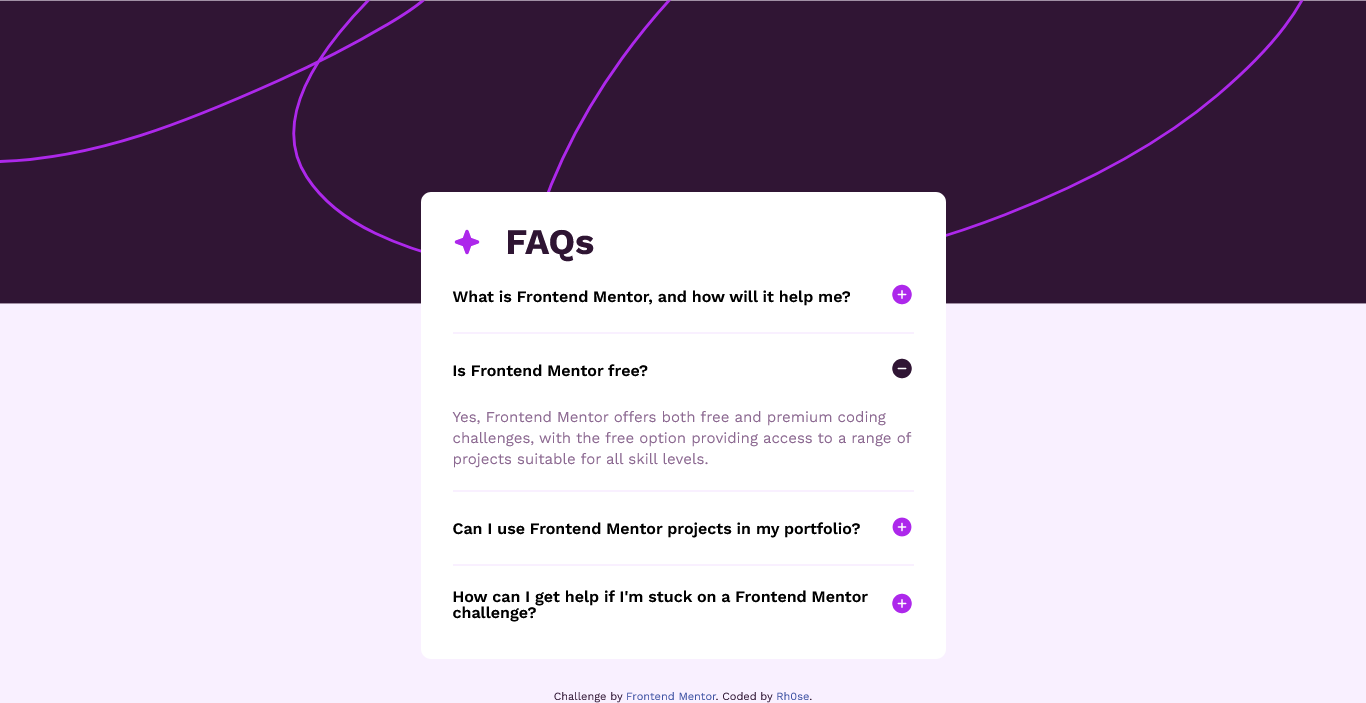
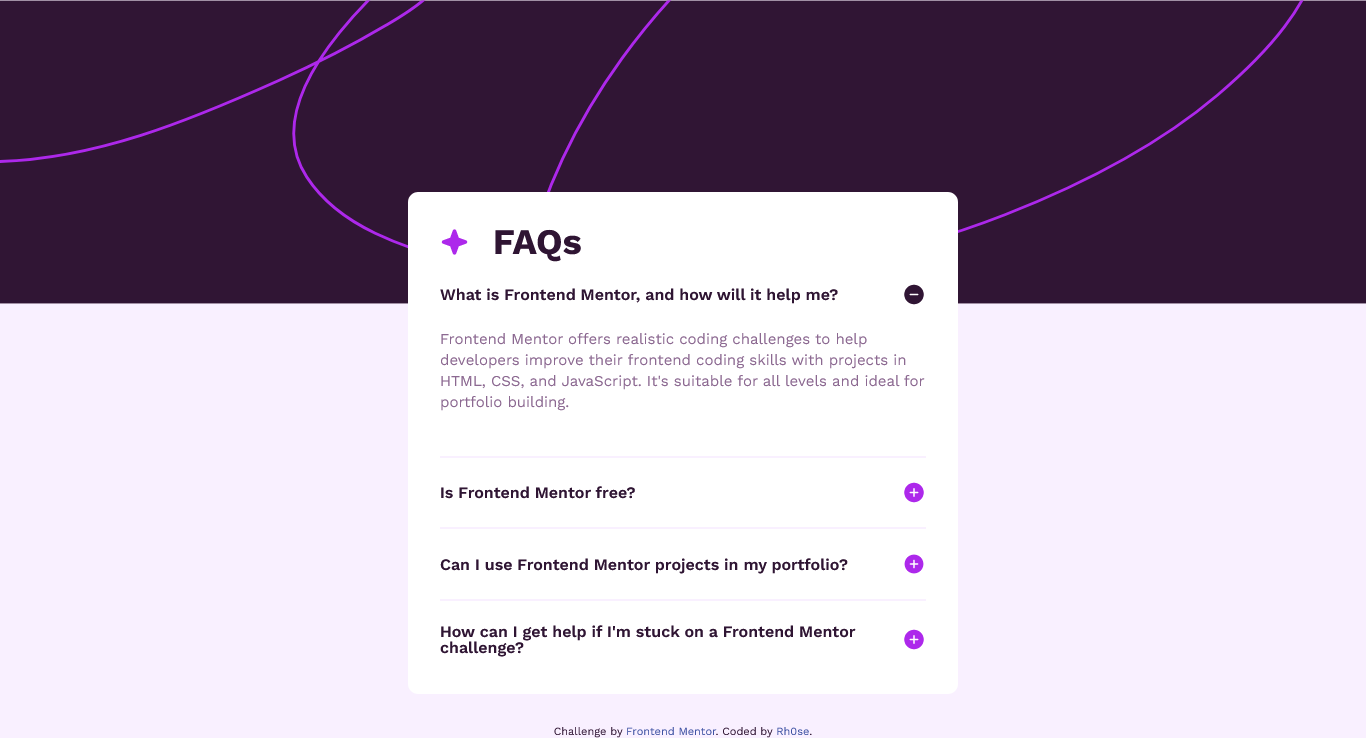
implemented the hide and show toogle with details and summary tags without javascript

diff --git a/index.html b/index.html
@@ -20,8 +20,8 @@
   
 <ul>
 <li id="faq-one">
-  <details class="question" id="question-one">
- <summary class="question-btn" value="one" id="question-one-btn"><span>What is Frontend Mentor, and how will it help me?</span>
+  <details class="faqs-item" id="question-one" open>
+ <summary class="question" value="one" id="question-one-btn"><span>What is Frontend Mentor, and how will it help me?</span>
   <img src="./assets/images/icon-plus.svg" alt="plus" id="one" class="plus">
  </summary>
  <!-- <button class="plus" id="plus-one" value="one"><img src="./assets/images/icon-plus.svg" alt="plus" id="one"></button> -->
@@ -32,48 +32,35 @@
  </p>
   
 </details>
-<!-- <div class="answer" id="one-answer">
-<p>
-  
-</p>
-</div> -->
 
 </li>
 <li>
-  <div class="question" id="question-two" onclick="showAnswer">
- <button class="question-btn" value="two" id="question-two-btn">Is Frontend Mentor free? </button>
- <button class="plus"  id="plus-two" value="two"><img src="./assets/images/icon-plus.svg" alt="plus" id="two"></button>
-</div>
-<div class="answer" id="two-answer">
-  <p>
+  <details class="faqs-item" id="question-two">
+ <summary class="question" value="two" id="question-two-btn"><span>Is Frontend Mentor free?</span><img src="./assets/images/icon-plus.svg" class="plus" alt="plus" id="two"></summary>
+ 
+<p class="answer" id="two-answer">
   Yes, Frontend Mentor offers both free and premium coding challenges, with the free 
   option providing access to a range of projects suitable for all skill levels.
 </p>
-</div>
+</details>
 </li>
 <li>
-  <div class="question" id="question-three">
- <button class="question-btn" id="question-three-btn" value="three">Can I use Frontend Mentor projects in my portfolio?</button>
- <button class="plus"  id="plus-three" value="three"><img src="./assets/images/icon-plus.svg" alt="plus" id="three"></button>
-</div>
-<div class="answer" id="three-answer">
-  <p>
+  <details class="faqs-item" id="question-three">
+ <summary class="question" id="question-three-btn" value="three"><span>Can I use Frontend Mentor projects in my portfolio?</span><img src="./assets/images/icon-plus.svg" class="plus" alt="plus" id="three"></summary>
+<p class="answer" id="three-answer">
   Yes, you can use projects completed on Frontend Mentor in your portfolio. It's an excellent
   way to showcase your skills to potential employers!
 </p>
-</div>
+</details>
 </li>
 <li>
-<div class="question" id="question-four" onclick="showAnswer">
- <button class="question-btn" id="question-four-btn" value="four"> How can I get help if I'm stuck on a Frontend Mentor challenge?</button>
- <button class="plus"  id="plus-four" value="four"><img src="./assets/images/icon-plus.svg" alt="plus" id="four"></button>
-</div> 
-<div class="answer" id="four-answer">
-  <p>
+<details class="faqs-item" id="question-four" onclick="showAnswer">
+ <summary class="question" id="question-four-btn" value="four"><span>How can I get help if I'm stuck on a Frontend Mentor challenge?</span><img src="./assets/images/icon-plus.svg" class="plus" alt="plus" id="four"></summary>
+<p class="answer" id="four-answer">
   The best place to get help is inside Frontend Mentor's Discord community. There's a help 
   channel where you can ask questions and seek support from other community members.
 </p>
-</div>
+</details>
 </li>
 </ul>
 </section>

diff --git a/styles.css b/styles.css
@@ -87,7 +87,7 @@ section {
     margin: 10em auto 2em;
     /* place-self:center; */
     padding: 1em;
-    width: min(90%, 525px);
+    width: min(90%, 550px);
     background-color: var(--White);
     border-radius: 10px;
 }
@@ -104,19 +104,8 @@ section {
     width: 1.2em;
 }
 
-
-summary {
-    color: var(--Dark-purple);
-    display: flex;
-    align-items: center;
-    justify-content: space-between;
-    list-style: none;
-    font-size: 1em;
-    font-weight: var(--fw-semi-bold);
-}
-
-summary span {
-    width: 70%;
+li:not(:nth-of-type(4)) {
+    border-bottom: 2px solid var(--Light-pink);
 }
 
 details {
@@ -132,6 +121,30 @@ details[open] summary img{
     content: url("./assets/images/icon-minus.svg");
 }
 
+summary {
+    width: 100%;
+    color: var(--Dark-purple);
+    display: flex;
+    align-items: center;
+    justify-content: space-between;
+    list-style: none;
+    font-size: 1em;
+    font-weight: var(--fw-semi-bold);
+}
+
+summary span {
+    width: 70%;
+}
+
+summary:hover, summary:active{
+    color:var(--Grayish-purple);
+    font-weight: var(--fw-bold);
+    cursor: pointer;
+ /*    border: 2px solid var(--Grayish-purple); */
+}
+
+
+
 /* summary::after {
     background-image: url('./assets/images/icon-plus.svg');
     background-size: 25px 25px;
@@ -140,30 +153,20 @@ details[open] summary img{
     content:"";
 } */
 
-div.question{
+/* divsummary{
     font-size: 1em;
     font-weight: var(--fw-semi-bold);
     display: flex;
     justify-content: space-between;
     align-items: center;
     padding: 1.4em 0;
-}
+} */
 
-.question-btn{
-    width: 100%;
-    color: var(--Dark-purple);
-}
 
-.question-btn:hover, .question-btn:active{
-    color:var(--Grayish-purple);
-    font-weight: var(--fw-bold);
-    cursor: pointer;
- /*    border: 2px solid var(--Grayish-purple); */
-}
 
-li:not(:nth-of-type(4)) {
-    border-bottom: 2px solid var(--Light-pink);
-}
+
+
+
 
 .plus {
     width: 1.5em;
@@ -180,10 +183,10 @@ li:not(:nth-of-type(4)) {
 /* .answer {
     display: none;
 } */
-.answer p {
+.answer {
     color: var(--Grayish-purple);
     line-height: 1.4;
-    padding-bottom: 1.4em;
+    padding: 1.4em 0;
     font-size: 15px;
 }
 
@@ -203,7 +206,7 @@ li:not(:nth-of-type(4)) {
         margin: 12em auto 2em;
         padding: 2em 2em 1em;
     }
-    /* .question-btn{
+    /* summary{
         width: 95%;
     } */
     summary span {

diff --git a/README.md b/README.md
@@ -47,29 +47,27 @@ Users should be able to:
 - Flexbox
 - CSS Grid
 - Mobile-first workflow
-- vanilla Javascript
+
 
 ### What I learned
 
-A major thing i learnt is how to use the forEach method with an array. 
+A major thing i learnt is how to use the the details and summary elements. 
 
 
-```js
-questions.forEach(question => question.addEventListener("click", showAnswer));
+```html
+<details class="faqs-item" id="question-one" open>
 ```
 
 
 ### Continued development
 
-- DOM events with JavaScript.
-- Got a community feedback to use details and summary html elements to make the accordions more accessible. Will work on that.
+- learn more sematic html elements
 
 
 ### Useful resources
 
 - [FreeCodeCamp](https://www.freecodecamp.org/news/nth-child-vs-nth-of-type-selector-in-css/#:~:text=nth%2Dchild()%20selects%20its,%3E%20%2C%20and%20.) - This helped me understand the difference between nth-child() vs nth-of-type() Selectors in CSS.
-- [W3Schools](https://www.w3schools.com/howto/howto_js_toggle_hide_show.asp) - This is an amazing article which helped me finally with the toogle of hiding and showing elements. I'd recommend it to anyone still learning this concept.
-- [JS Craft](https://www.js-craft.io/blog/using-addeventlistener-on-multiple-elements-in-javascript/) - This is an amazing article on how to use forEach method to call addEventListener on multiple elements.
+- [MDN web docs](https://developer.mozilla.org/en-US/docs/Web/HTML/Element/details) and [web.dev](https://web.dev/learn/html/details) This helped me understand the details and summary elements
 
 
 ## Author
